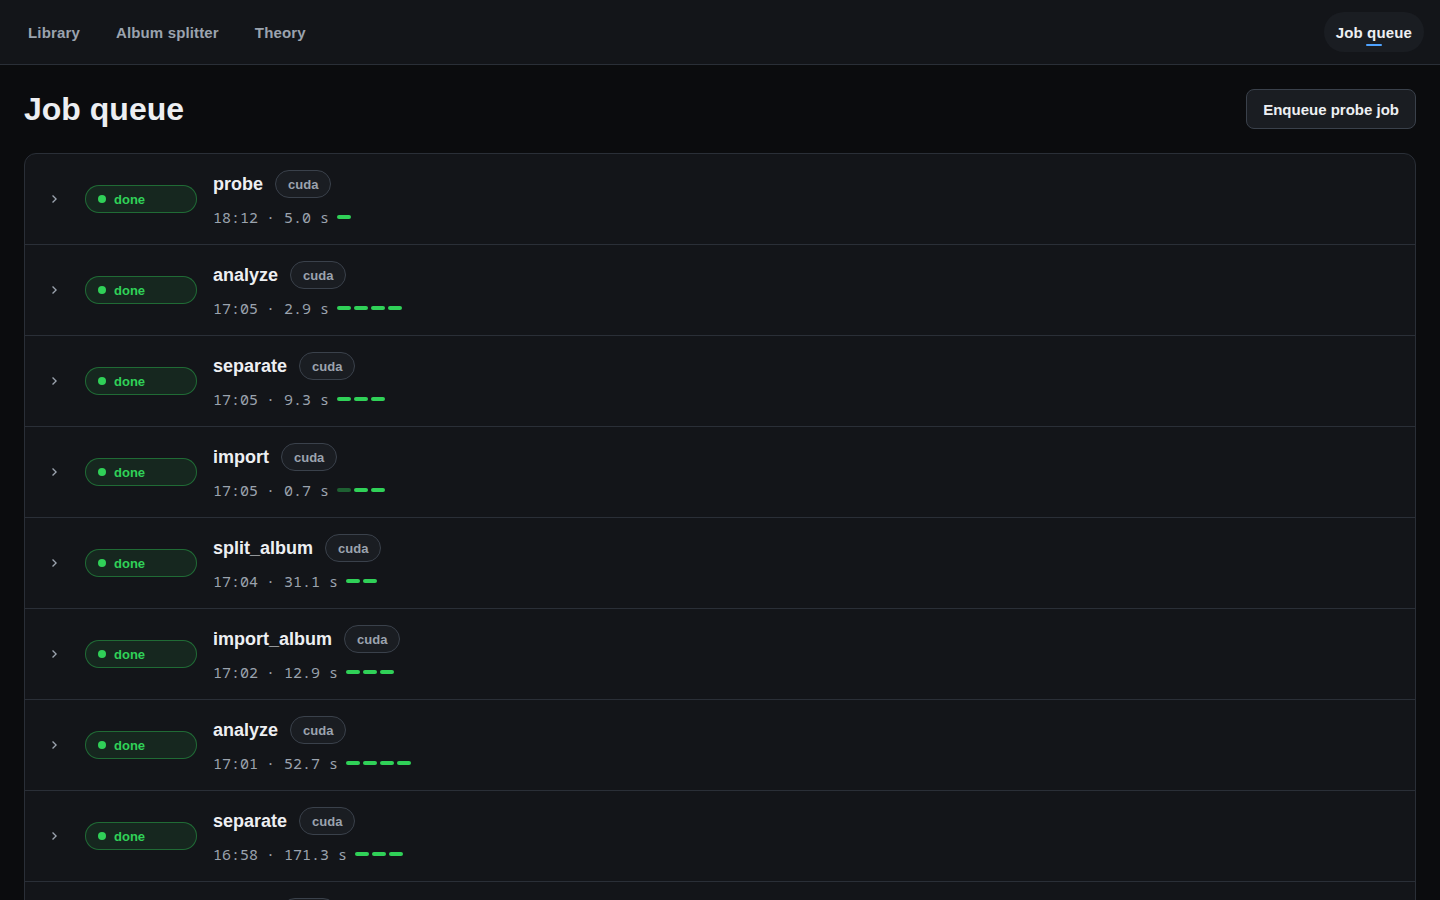
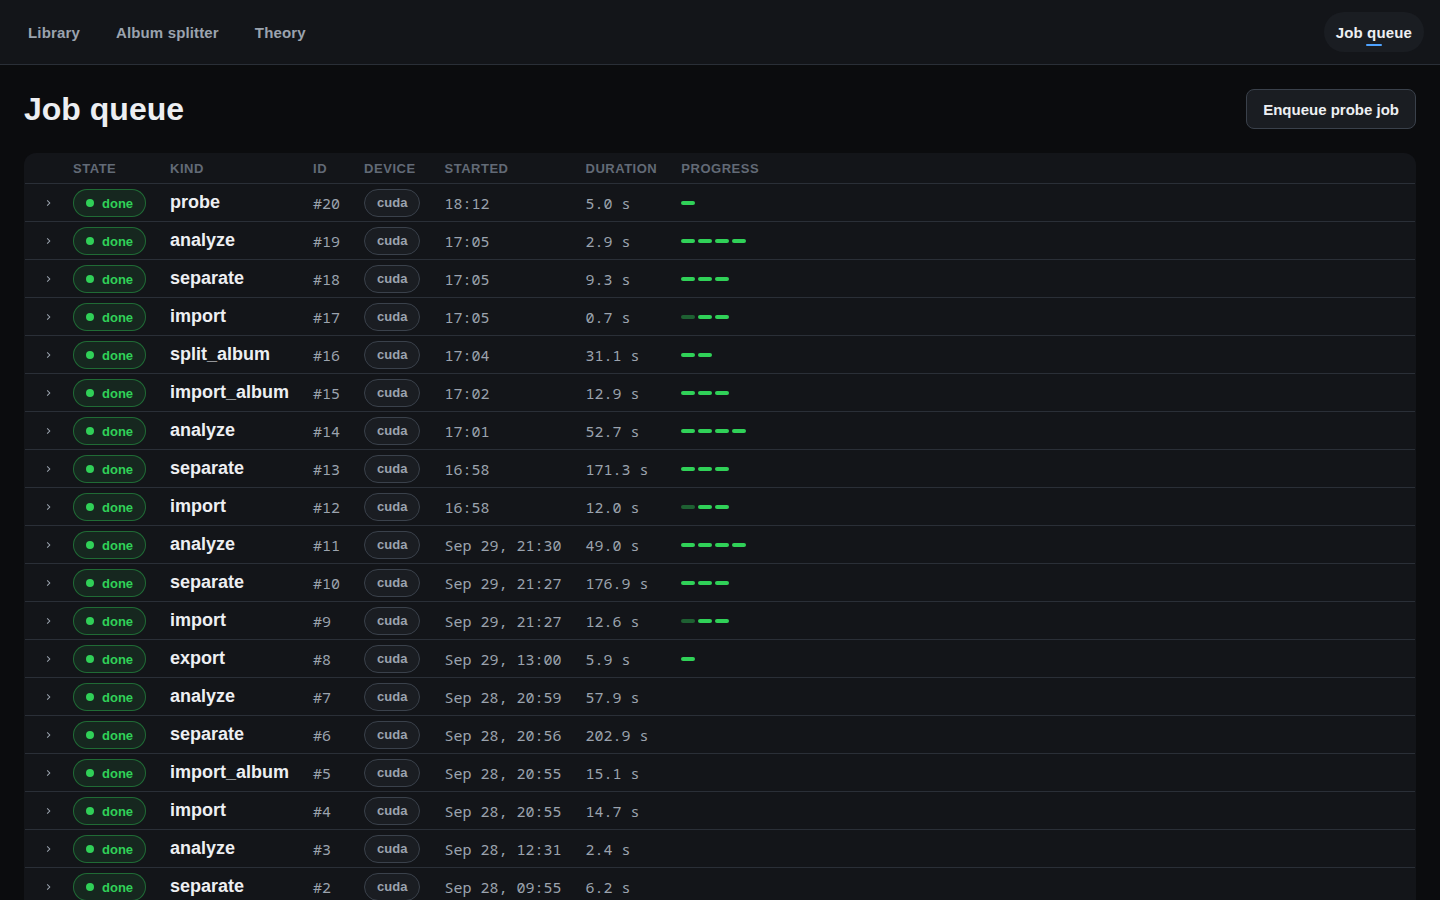
feat(jobs): job queue as a compact table, one line per job

diff --git a/frontend/src/screens/JobRow.tsx b/frontend/src/screens/JobRow.tsx
@@ -1,4 +1,4 @@
-// §10 + D-17: one job, one row. Running and failed rows open on their steps by
+// §10 + D-17: one job, one table row (plus a detail row when open). Running and failed rows open on their steps by
 // default, so a traceback is never hidden behind a click (N-08).
 import { useId, useState } from 'react';
 
@@ -37,6 +37,9 @@ function summary(job: Job): string | null {
   return null;
 }
 
+// Column count of the Jobs table in JobQueue.tsx; the detail row spans it.
+const COLS = 9;
+
 export interface JobRowProps {
   job: Job;
   defaultOpen?: boolean;
@@ -53,55 +56,67 @@ export function JobRow({ job, defaultOpen, onCancel }: JobRowProps) {
   const began = initiated(job);
 
   return (
-    <li className={styles.row} data-state={job.state}>
-      <div className={styles.head}>
-        <button
-          type="button"
-          className={styles.disclosure}
-          aria-expanded={open}
-          aria-controls={bodyId}
-          aria-label={`Steps of ${job.kind} job ${job.id}`}
-          onClick={() => setToggled(!open)}
-        >
-          <svg viewBox="0 0 24 24" aria-hidden="true">
-            <path d="M9 6l6 6-6 6-1.4-1.4 4.6-4.6-4.6-4.6z" />
-          </svg>
-        </button>
-        <Chip tone={jobStateTone(job.state)} dot>
-          {job.state}
-        </Chip>
-        <div className={styles.main}>
-          <div className={styles.title}>
-            <span className={styles.kind}>{job.kind}</span>
-            {job.device ? <Chip>{job.device}</Chip> : <span className="dim3">—</span>}
-          </div>
-          {job.state === 'running' && <ProgressBar value={job.progress} label={`${job.kind} progress`} />}
-          <span className={styles.meta} data-failed={job.state === 'failed'}>
-            {/* U-04: a ticking duration must not jitter. */}
-            {began}
-            {began && ' · '}
-            {[line, duration(job)].filter(Boolean).join(' · ')}
+    <>
+      <tr className={styles.row} data-state={job.state}>
+        <td className={styles.toggle}>
+          <button
+            type="button"
+            className={styles.disclosure}
+            aria-expanded={open}
+            aria-controls={bodyId}
+            aria-label={`Steps of ${job.kind} job ${job.id}`}
+            onClick={() => setToggled(!open)}
+          >
+            <svg viewBox="0 0 24 24" aria-hidden="true">
+              <path d="M9 6l6 6-6 6-1.4-1.4 4.6-4.6-4.6-4.6z" />
+            </svg>
+          </button>
+        </td>
+        <td>
+          <Chip tone={jobStateTone(job.state)} dot>
+            {job.state}
+          </Chip>
+        </td>
+        <td className={styles.kind}>{job.kind}</td>
+        <td className={`${styles.num} ${styles.narrowHide}`}>#{job.id}</td>
+        <td className={styles.narrowHide}>
+          {job.device ? <Chip>{job.device}</Chip> : <span className="dim3">—</span>}
+        </td>
+        {/* U-04: times and a ticking duration are tabular, so they must not jitter. */}
+        <td className={styles.num}>{began}</td>
+        <td className={styles.num}>{duration(job)}</td>
+        <td className={styles.progress} data-failed={job.state === 'failed'}>
+          <div className={styles.progressCell}>
+            {job.state === 'running' && (
+              <ProgressBar value={job.progress} label={`${job.kind} progress`} />
+            )}
+            {line && <span>{line}</span>}
             {!open && job.steps.length > 0 && <StepStrip steps={job.steps} />}
-          </span>
-        </div>
-        {(job.state === 'queued' || job.state === 'running') && (
-          <Button variant="danger" onClick={onCancel}>
-            Cancel
-          </Button>
-        )}
-      </div>
-      {open && (
-        <div id={bodyId} className={styles.body}>
-          {job.steps.length > 0 ? (
-            <StepList steps={job.steps} error={job.error} />
-          ) : (
-            <>
-              <p className={styles.none}>No step record. This job ran before step tracking existed.</p>
-              {job.error && <Banner tone="error" title={`${job.kind} job ${job.id} failed`} trace={job.error} />}
-            </>
+          </div>
+        </td>
+        <td className={styles.action}>
+          {(job.state === 'queued' || job.state === 'running') && (
+            <Button variant="danger" onClick={onCancel}>
+              Cancel
+            </Button>
           )}
-        </div>
+        </td>
+      </tr>
+      {open && (
+        <tr className={styles.detail} data-state={job.state}>
+          <td />
+          <td colSpan={COLS - 1} id={bodyId} className={styles.body}>
+            {job.steps.length > 0 ? (
+              <StepList steps={job.steps} error={job.error} />
+            ) : (
+              <>
+                <p className={styles.none}>No step record. This job ran before step tracking existed.</p>
+                {job.error && <Banner tone="error" title={`${job.kind} job ${job.id} failed`} trace={job.error} />}
+              </>
+            )}
+          </td>
+        </tr>
       )}
-    </li>
+    </>
   );
 }

diff --git a/frontend/src/screens/JobRow.module.css b/frontend/src/screens/JobRow.module.css
@@ -1,18 +1,19 @@
-.row { border-bottom: 1px solid var(--ds-border); }
-.row:last-child { border-bottom: 0; }
-.row[data-state='running'] { background: color-mix(in srgb, var(--ds-accent) 5%, transparent); }
-
-.head {
-  display: grid;
-  grid-template-columns: 28px 112px 1fr auto;
-  gap: var(--ds-4);
-  align-items: center;
-  padding: var(--ds-4);
+/* One table row per job: cells stay on a single line, so the row is as tall as its chip. */
+.row > td {
+  padding: var(--ds-1) var(--ds-3);
+  border-bottom: 1px solid var(--ds-border);
+  vertical-align: middle;
+  white-space: nowrap;
 }
+tbody > :last-child > td { border-bottom: 0; }
+.row[data-state='running'],
+.detail[data-state='running'] { background: color-mix(in srgb, var(--ds-accent) 5%, transparent); }
+
+.toggle { width: 28px; padding-right: 0 !important; }
 
 .disclosure {
-  width: 28px;
-  height: 28px;
+  width: 24px;
+  height: 24px;
   display: flex;
   align-items: center;
   justify-content: center;
@@ -26,26 +27,26 @@
 .disclosure svg { width: 18px; height: 18px; fill: currentColor; transition: transform var(--ds-m-flip) var(--ds-ease); }
 .disclosure[aria-expanded='true'] svg { transform: rotate(90deg); }
 
-.main { display: flex; flex-direction: column; gap: var(--ds-2); min-width: 0; }
-.title { display: flex; align-items: center; gap: var(--ds-3); }
 .kind { font-size: var(--ds-t-md); font-weight: 600; }
 
-.meta {
-  display: flex;
-  align-items: center;
-  gap: var(--ds-2);
+.num {
   font: 400 var(--ds-t-sm) / var(--ds-lh-sm) var(--ds-mono);
   font-variant-numeric: tabular-nums;
   color: var(--ds-text-2);
 }
-.meta[data-failed='true'] { color: var(--ds-error); }
 
-/* Steps line up under the title column: disclosure + chip + two gaps. */
-.body { padding: 0 var(--ds-4) var(--ds-5) calc(var(--ds-4) + 28px + 112px + 2 * var(--ds-4)); }
+.progress { width: 100%; font: 400 var(--ds-t-sm) / var(--ds-lh-sm) var(--ds-mono); color: var(--ds-text-2); }
+.progress[data-failed='true'] { color: var(--ds-error); }
+.progressCell { display: flex; align-items: center; gap: var(--ds-3); min-width: 0; }
+.progressCell > :first-child[role='progressbar'] { flex: 0 0 120px; }
+
+.action { text-align: right; }
+
+/* Steps sit under the State column, in the detail row. */
+.detail > td { border-bottom: 1px solid var(--ds-border); }
+.body { padding: 0 var(--ds-3) var(--ds-4); }
 .none { margin: 0 0 var(--ds-3); font-size: var(--ds-t-sm); color: var(--ds-text-3); }
 
 @media (max-width: 760px) {
-  .head { grid-template-columns: 28px 1fr auto; }
-  .head > :nth-child(2) { display: none; }
-  .body { padding-left: var(--ds-4); }
+  .narrowHide { display: none; }
 }

diff --git a/frontend/src/screens/JobQueue.tsx b/frontend/src/screens/JobQueue.tsx
@@ -38,7 +38,21 @@ export function JobQueue() {
       {jobs.data?.length === 0 && <EmptyState title="No jobs yet." />}
 
       {jobs.data && jobs.data.length > 0 && (
-        <ul className={styles.list} aria-label="Jobs">
+        <table className={styles.table} aria-label="Jobs">
+          <thead>
+            <tr>
+              <th scope="col"><span className={styles.srOnly}>Steps</span></th>
+              <th scope="col">State</th>
+              <th scope="col">Kind</th>
+              <th scope="col" className={styles.narrowHide}>ID</th>
+              <th scope="col" className={styles.narrowHide}>Device</th>
+              <th scope="col">Started</th>
+              <th scope="col">Duration</th>
+              <th scope="col">Progress</th>
+              <th scope="col"><span className={styles.srOnly}>Actions</span></th>
+            </tr>
+          </thead>
+          <tbody>
           {jobs.data.map((job) => (
             <JobRow
               key={job.id}
@@ -47,7 +61,8 @@ export function JobQueue() {
               onCancel={() => cancel.mutate(job.id)}
             />
           ))}
-        </ul>
+          </tbody>
+        </table>
       )}
     </section>
   );

diff --git a/frontend/src/screens/JobQueue.module.css b/frontend/src/screens/JobQueue.module.css
@@ -11,14 +11,36 @@
   gap: var(--ds-4);
 }
 
-.list {
-  margin: 0;
-  padding: 0;
-  list-style: none;
+/* Compact: one ~34px line per job, so a long history fits on the page. */
+.table {
+  width: 100%;
+  border-collapse: collapse;
   background: var(--ds-surface);
   border: 1px solid var(--ds-border);
   border-radius: var(--ds-r-panel);
   overflow: hidden;
 }
 
+.table th {
+  padding: var(--ds-2) var(--ds-3);
+  text-align: left;
+  font: 600 var(--ds-t-xs, var(--ds-t-sm)) / 1 var(--ds-font);
+  letter-spacing: 0.04em;
+  text-transform: uppercase;
+  color: var(--ds-text-3);
+  border-bottom: 1px solid var(--ds-border);
+}
+
+@media (max-width: 760px) {
+  .narrowHide { display: none; }
+}
+
 .filter { margin: 0; font-size: var(--ds-t-sm); color: var(--ds-text-2); }
+
+.srOnly {
+  position: absolute;
+  width: 1px;
+  height: 1px;
+  overflow: hidden;
+  clip-path: inset(50%);
+}

diff --git a/frontend/src/screens/JobQueue.test.tsx b/frontend/src/screens/JobQueue.test.tsx
@@ -123,7 +123,7 @@ test('a failed job and a done job never share a chip tone', async () => {
   ]);
 
   // The stats row also carries a "failed" label, so scope the lookup to the table.
-  const table = within(await screen.findByRole('list', { name: 'Jobs' }));
+  const table = within(await screen.findByRole('table', { name: 'Jobs' }));
   expect(table.getByText('failed')).toHaveClass('chip', 'error');
   expect(table.getByText('done')).toHaveClass('chip', 'ok');
 });

diff --git a/README.md b/README.md
@@ -37,8 +37,8 @@ instrument and play along.
   drag, add and delete cuts, or type exact start and end times to the millisecond, then
   download a zip or add the tracks to the library as Songs
 - Export the current mix
-- Job queue screen: every job shows when it started (or was queued) at a glance, and
-  expands to its named steps, live, with a duration each and a failure's real traceback
+- Job queue screen: a compact table, one line per job (state, kind, device, when it started or was queued, duration, progress), and
+  each row expands to its named steps, live, with a duration each and a failure's real traceback
   under the step that failed
 - Failures and CPU fallbacks are shown in the UI with the real error message
 
